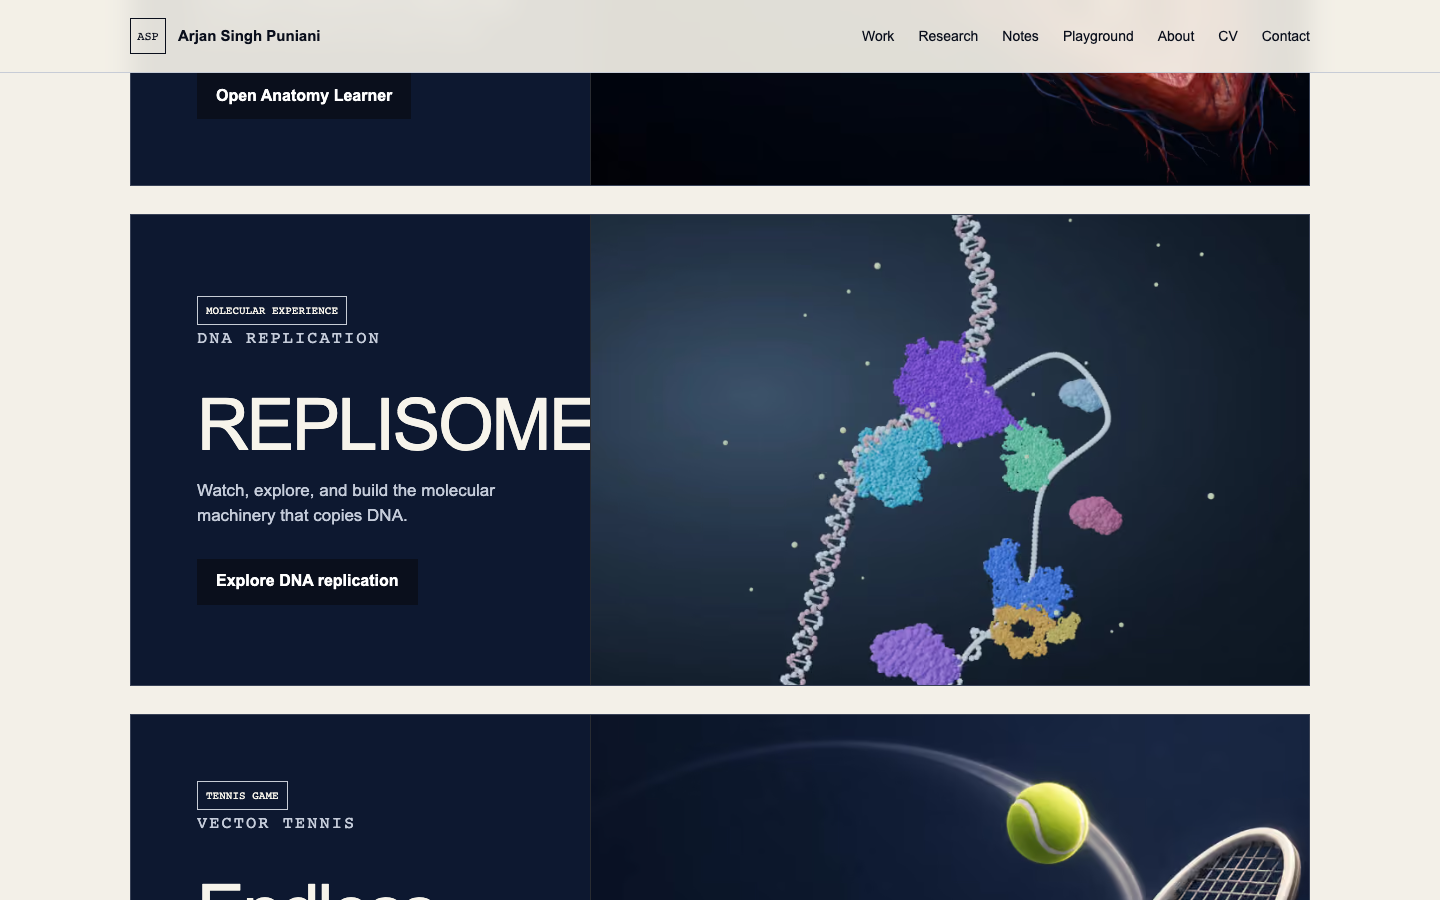
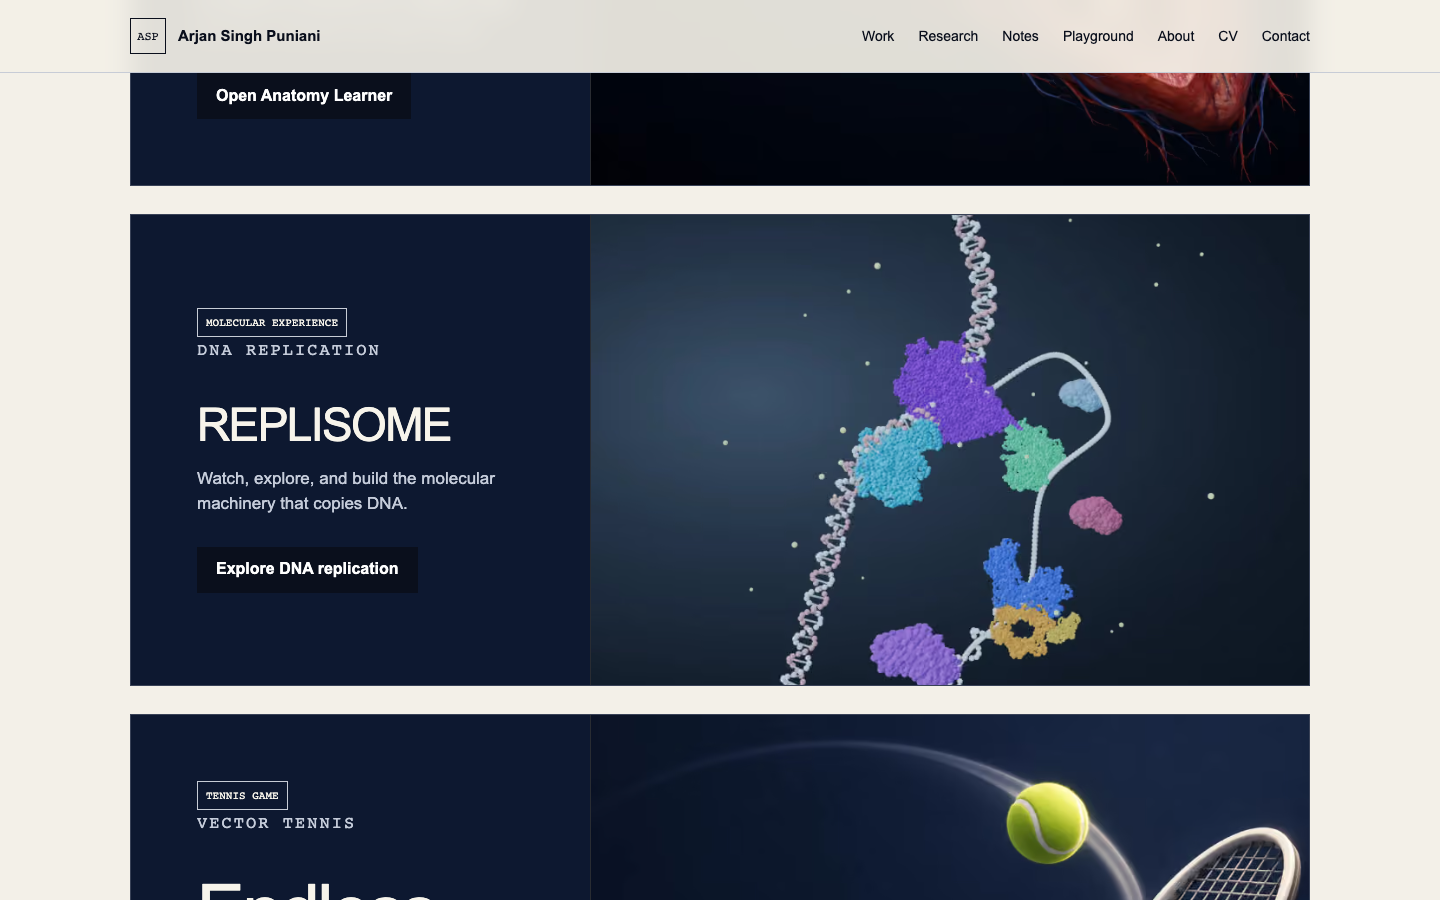
Fit REPLISOME title within the existing Playground card

diff --git a/arjan-portfolio/src/app/playground/page.tsx b/arjan-portfolio/src/app/playground/page.tsx
@@ -109,7 +109,7 @@ export default function Playground() {
             <div className={styles.copy}>
               <span className="status">{card.status}</span>
               <p className="eyebrow">{card.eyebrow}</p>
-              <h2>{card.title}</h2>
+              <h2 className={card.href === "/playground/replisome" ? styles.replisomeTitle : undefined}>{card.title}</h2>
               <p>{card.description}</p>
               <Link className="button" href={card.href}>{card.button}</Link>
             </div>

diff --git a/arjan-portfolio/src/app/playground/playground.module.css b/arjan-portfolio/src/app/playground/playground.module.css
@@ -53,6 +53,10 @@
   line-height: 1.5;
 }
 
+.copy h2.replisomeTitle {
+  font-size: clamp(32px, 3.5vw, 46px);
+}
+
 .preview {
   position: relative;
   min-height: 470px;
